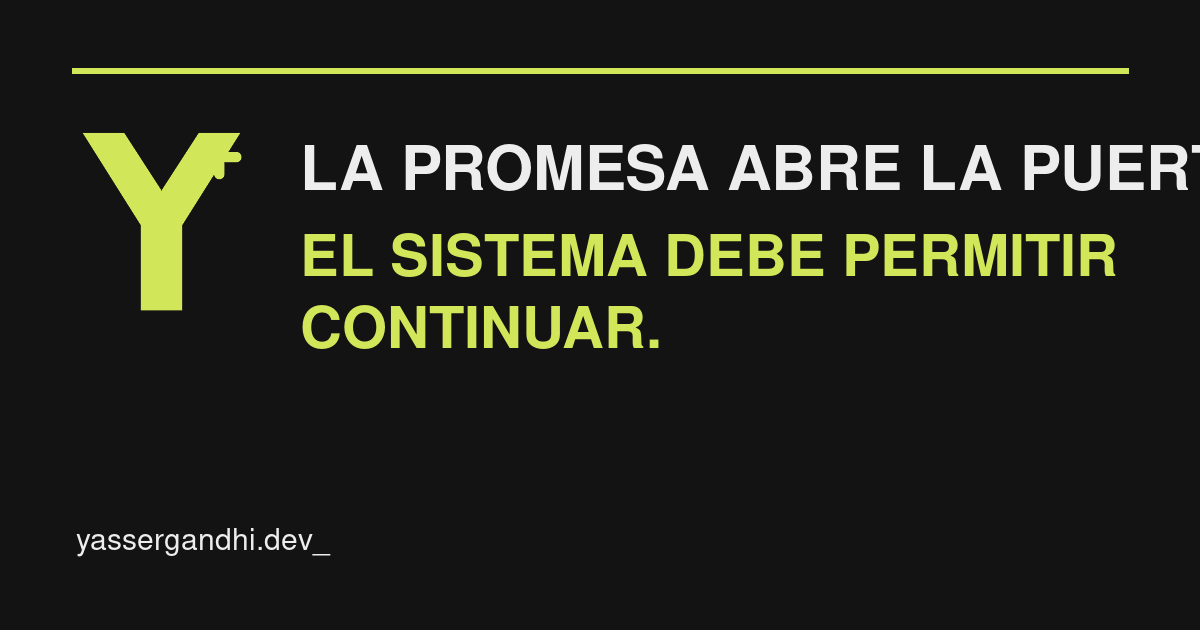
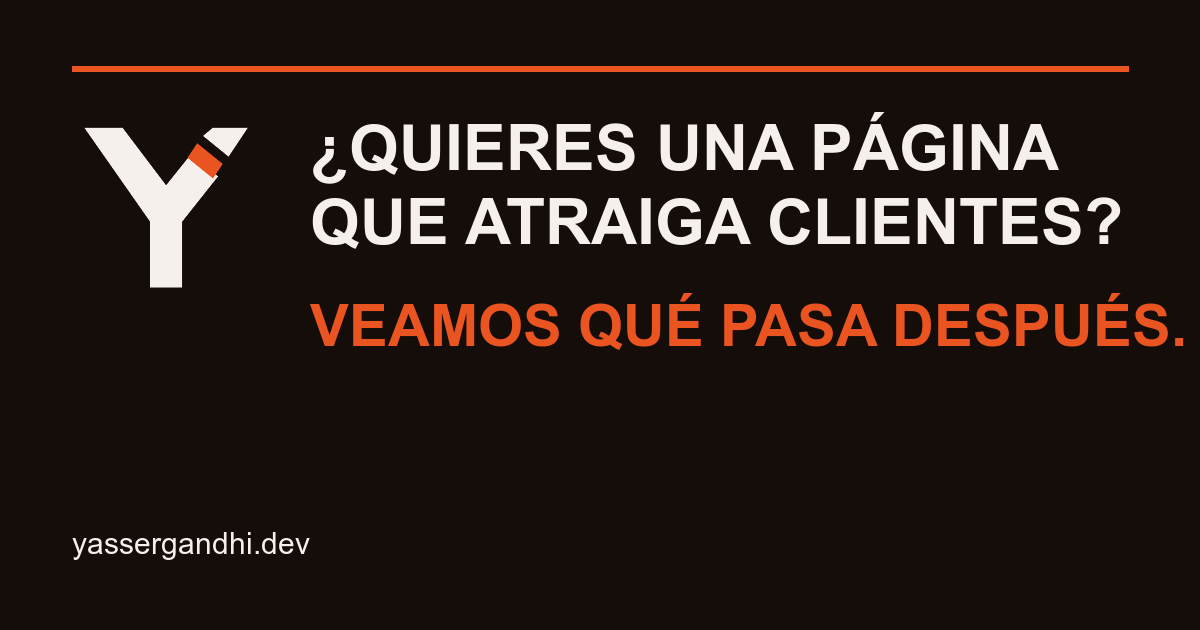
feat: rediseña isotipo y sistema cromático V10

diff --git a/src/styles/global.css b/src/styles/global.css
@@ -14,36 +14,37 @@
 }
 
 :root {
-  --black: #121212;
-  --surface: #1b1b1b;
-  --raised: #242424;
-  --lime: #d7ed55;
-  --lime-bright: #e5fa69;
-  --white: #f2f1ef;
-  --muted: #b9b7b3;
-  --line: rgba(215, 237, 85, .38);
-  --line-soft: rgba(242, 241, 239, .16);
+  --ink: #140d0a;
+  --surface: #1e1410;
+  --raised: #291a14;
+  --orange: #e95420;
+  --orange-bright: #ff7043;
+  --orange-deep: #a83a18;
+  --paper: #f5f0ec;
+  --muted: #c5b5aa;
+  --line: rgba(233, 84, 32, .38);
+  --line-soft: rgba(245, 240, 236, .14);
   --max: 76rem;
   --reading: 64ch;
 }
 
 *, *::before, *::after { box-sizing: border-box; }
-html { overflow-x: hidden; scroll-behavior: smooth; scroll-padding-top: 6rem; background: var(--black); }
-body { min-width: 320px; margin: 0; overflow-x: hidden; color: var(--white); background: var(--black); font-family: "Instrument Sans", system-ui, sans-serif; font-size: clamp(1.0625rem, 1.2vw, 1.1875rem); line-height: 1.58; }
+html { overflow-x: hidden; scroll-behavior: smooth; scroll-padding-top: 6rem; background: var(--ink); }
+body { min-width: 320px; margin: 0; overflow-x: hidden; color: var(--paper); background: var(--ink); font-family: "Instrument Sans", system-ui, sans-serif; font-size: clamp(1.0625rem, 1.2vw, 1.1875rem); line-height: 1.58; }
 img, svg, iframe { display: block; max-width: 100%; }
 a { color: inherit; text-underline-offset: .24em; }
-:focus-visible { outline: 3px solid var(--lime-bright); outline-offset: 4px; }
+:focus-visible { outline: 3px solid var(--orange-bright); outline-offset: 4px; }
 h1, h2, h3, p { margin-top: 0; }
 ul, ol { margin-top: 0; }
 h1, h2, h3, .footer-closing { font-family: "Barlow Condensed", "Arial Narrow", sans-serif; font-weight: 800; text-wrap: balance; }
 h1 { max-width: 20ch; margin-bottom: 1.15rem; font-size: clamp(3.15rem, 5vw, 5.25rem); letter-spacing: -.025em; line-height: .91; }
 h1 > span { display: block; }
-.hero-contrast { margin-top: .12em; color: var(--lime); }
+.hero-contrast { margin-top: .12em; color: var(--orange); }
 .section-title { max-width: 18ch; margin-bottom: 1.4rem; font-size: clamp(2.75rem, 5.8vw, 5.3rem); letter-spacing: -.018em; line-height: .94; }
 h3 { margin-bottom: .55rem; font-size: clamp(1.9rem, 3vw, 2.8rem); line-height: 1; }
 p { max-width: var(--reading); }
 .intro-copy { color: var(--muted); font-size: clamp(1.0625rem, 1.4vw, 1.25rem); line-height: 1.54; }
-.kicker, .label { color: var(--lime); font-size: .78rem; font-weight: 700; letter-spacing: .11em; line-height: 1.4; text-transform: uppercase; }
+.kicker, .label { color: var(--orange-bright); font-size: .78rem; font-weight: 700; letter-spacing: .11em; line-height: 1.4; text-transform: uppercase; }
 .microcopy { margin-top: .75rem; color: var(--muted); font-size: .875rem; line-height: 1.45; }
 .visually-hidden { position: absolute; width: 1px; height: 1px; overflow: hidden; clip: rect(0 0 0 0); clip-path: inset(50%); white-space: nowrap; }
 
@@ -52,29 +53,35 @@ section[id] { scroll-margin-top: 6rem; }
 .container { width: min(calc(100% - 2rem), var(--max)); margin-inline: auto; }
 .section-raised { background: var(--raised); }
 .section-intro { color: var(--muted); }
-.button { display: inline-flex; min-height: 50px; align-items: center; justify-content: center; border: 1px solid var(--lime); border-radius: 2px; padding: .78rem 1.08rem; color: var(--black); background: var(--lime); font-size: .96rem; font-weight: 700; text-decoration: none; transition: background-color 160ms ease, transform 160ms ease; }
-.button:hover, .button:focus-visible { color: var(--black); background: var(--lime-bright); transform: translateY(-2px); }
+.button { display: inline-flex; min-height: 50px; align-items: center; justify-content: center; border: 1px solid var(--orange); border-radius: 2px; padding: .78rem 1.08rem; color: var(--ink); background: var(--orange); font-size: .96rem; font-weight: 700; text-decoration: none; transition: background-color 160ms ease, transform 160ms ease; }
+.button:hover, .button:focus-visible { color: var(--ink); background: var(--orange-bright); transform: translateY(-2px); }
 .button > span, .nav-evaluation > span { display: inline-block; margin-left: .45rem; transition: transform 160ms ease; }
 .button:hover > span, .button:focus-visible > span, .nav-evaluation:hover > span, .nav-evaluation:focus-visible > span { transform: translateX(4px); }
+.nav-brand .brand-mark-piece, .footer-brand .brand-mark-piece { transition: transform 180ms ease; }
+.nav-brand:hover .brand-mark-piece, .nav-brand:focus-visible .brand-mark-piece,
+.footer-brand:hover .brand-mark-piece, .footer-brand:focus-within .brand-mark-piece { transform: translateX(2px); }
 
-.site-nav { position: sticky; z-index: 20; top: 0; border-bottom: 2px solid var(--lime); background: rgba(18, 18, 18, .97); }
+.site-nav { position: sticky; z-index: 20; top: 0; border-bottom: 2px solid var(--orange); background: rgba(20, 13, 10, .97); }
 .nav-inner { display: flex; min-height: 68px; align-items: center; gap: .8rem; }
 .nav-brand { display: inline-flex; min-height: 44px; align-items: center; gap: .6rem; margin-right: auto; font-size: .9rem; font-weight: 700; text-decoration: none; }
-.nav-brand .brand-mark { width: 29px; height: 33px; color: var(--lime); }
-.nav-brand > span > span { color: var(--lime); }
+.brand-mark { --mark-piece: var(--orange); }
+.brand-mark-piece { fill: var(--mark-piece); transform-box: fill-box; transform-origin: center; }
+.brand-mark[data-monochrome] .brand-mark-piece { fill: currentColor; }
+.nav-brand .brand-mark { width: 31px; height: 33px; color: var(--paper); }
+.nav-brand > span > span { color: var(--orange); }
 .nav-links { display: flex; gap: .1rem; margin: 0; padding: 0; list-style: none; }
 .nav-links a, .nav-evaluation, .nav-back { display: inline-flex; min-height: 44px; align-items: center; padding: .38rem .58rem; font-size: .82rem; font-weight: 600; text-decoration: none; }
 .nav-links a { border-bottom: 1px solid transparent; }
-.nav-links a:hover, .nav-links a:focus-visible, .nav-links a[data-active] { border-color: var(--lime); color: var(--lime-bright); }
-.nav-evaluation, .nav-back { border: 1px solid var(--lime); border-radius: 2px; color: var(--black); background: var(--lime); }
-.nav-evaluation:hover, .nav-evaluation:focus-visible, .nav-back:hover, .nav-back:focus-visible { background: var(--lime-bright); }
-.reading-progress { position: absolute; right: 0; bottom: -2px; left: 0; height: 2px; background: var(--lime-bright); transform: scaleX(0); transform-origin: left; }
+.nav-links a:hover, .nav-links a:focus-visible, .nav-links a[data-active] { border-color: var(--orange); color: var(--orange-bright); }
+.nav-evaluation, .nav-back { border: 1px solid var(--orange); border-radius: 2px; color: var(--ink); background: var(--orange); }
+.nav-evaluation:hover, .nav-evaluation:focus-visible, .nav-back:hover, .nav-back:focus-visible { background: var(--orange-bright); }
+.reading-progress { position: absolute; right: 0; bottom: -2px; left: 0; height: 2px; background: var(--orange-bright); transform: scaleX(0); transform-origin: left; }
 @supports (animation-timeline: scroll()) { .reading-progress { animation: reading-progress linear both; animation-timeline: scroll(); } }
 @keyframes reading-progress { to { transform: scaleX(1); } }
 
 .hero { min-height: calc(100svh - 68px); border-top: 0; padding: clamp(1.25rem, 3.4vw, 3rem) 0 3rem; }
-.hero-grid { display: grid; grid-template-columns: minmax(7rem, .55fr) minmax(0, 2.45fr); gap: clamp(2rem, 6vw, 6rem); align-items: start; border-top: 4px solid var(--lime); padding-top: clamp(1rem, 2.5vw, 2rem); }
-.hero-mark .brand-mark { width: min(100%, 14rem); color: var(--lime); }
+.hero-grid { display: grid; grid-template-columns: minmax(7rem, .55fr) minmax(0, 2.45fr); gap: clamp(2rem, 6vw, 6rem); align-items: start; border-top: 4px solid var(--orange); padding-top: clamp(1rem, 2.5vw, 2rem); }
+.hero-mark .brand-mark { width: min(100%, 14rem); color: var(--paper); }
 .hero-copy .kicker { margin-bottom: .8rem; }
 .hero-copy .intro-copy { max-width: 58ch; margin-bottom: 1rem; }
 
@@ -82,19 +89,19 @@ section[id] { scroll-margin-top: 6rem; }
 .editorial-list li { position: relative; display: grid; grid-template-columns: minmax(4rem, .28fr) minmax(0, 1.72fr); gap: 1.25rem; align-items: baseline; padding: 1.5rem 0; }
 .editorial-list li::before, .method-sequence li::before { position: absolute; top: 0; right: 0; left: 0; height: 1px; background: var(--line); content: ""; transform-origin: left; }
 .editorial-list li:last-child, .method-sequence li:last-child { border-bottom: 1px solid var(--line); }
-.editorial-list li > span, .method-sequence li > span { color: var(--lime); font-family: "Barlow Condensed", "Arial Narrow", sans-serif; font-size: clamp(3.1rem, 7vw, 6.4rem); font-weight: 800; line-height: .8; }
+.editorial-list li > span, .method-sequence li > span { color: var(--orange); font-family: "Barlow Condensed", "Arial Narrow", sans-serif; font-size: clamp(3.1rem, 7vw, 6.4rem); font-weight: 800; line-height: .8; }
 .editorial-list p { margin: 0; font-size: clamp(1.14rem, 2vw, 1.5rem); }
 .method-sequence li { position: relative; display: grid; grid-template-columns: minmax(5rem, .42fr) minmax(0, 1.58fr); gap: 2rem; padding: 2rem 0; }
 .method-sequence p { margin-bottom: 0; color: var(--muted); }
 .narrative-line { display: grid; grid-template-columns: 1fr 1fr 1fr; width: min(100%, 42rem); height: 4px; margin-bottom: 2rem; gap: 5px; }
-.narrative-line span { background: var(--lime); }
+.narrative-line span { background: var(--orange); }
 
 .evidence-grid { display: grid; grid-template-columns: minmax(0, 1.15fr) minmax(18rem, .85fr); gap: clamp(3rem, 8vw, 7rem); align-items: start; }
 .evidence-links { display: flex; flex-wrap: wrap; gap: 1rem 2rem; margin-top: 2rem; padding: 0; list-style: none; }
 .evidence-links a, .authorial-signature a, .footer-links a, .footer-signature a { background-image: linear-gradient(currentColor, currentColor); background-position: 100% 100%; background-repeat: no-repeat; background-size: 0 1px; text-decoration: none; transition: background-size 180ms ease; }
 .evidence-links a:hover, .evidence-links a:focus-visible, .authorial-signature a:hover, .authorial-signature a:focus-visible, .footer-links a:hover, .footer-links a:focus-visible, .footer-signature a:hover, .footer-signature a:focus-visible { background-position: 0 100%; background-size: 100% 1px; }
-.authorial-signature { border-bottom: 1px solid var(--lime); padding: 0 0 2rem; }
-.signature-line { width: 100%; height: 4px; margin-bottom: 1.5rem; background: var(--lime); transform-origin: left; }
+.authorial-signature { border-bottom: 1px solid var(--orange); padding: 0 0 2rem; }
+.signature-line { width: 100%; height: 4px; margin-bottom: 1.5rem; background: var(--orange); transform-origin: left; }
 .authorial-signature h3 { margin-block: 1.2rem 1rem; font-size: clamp(3rem, 6vw, 5.5rem); text-transform: none; }
 .authorial-signature p:not(.label) { color: var(--muted); }
 .final-cta { background: var(--raised); }
@@ -105,33 +112,34 @@ section[id] { scroll-margin-top: 6rem; }
 .evaluation-reading { max-width: 54rem; }
 .evaluation-header h1 { max-width: 15ch; margin-bottom: 1rem; font-size: clamp(3rem, 7vw, 6.6rem); }
 .evaluation-header .intro-copy { margin-bottom: 1rem; }
-.evaluation-strip { max-width: none; border-block: 1px solid var(--line); padding: .8rem 0; color: var(--white); font-size: .9rem; font-weight: 600; }
-.evaluation-strip span { padding-inline: .35rem; color: var(--lime); }
+.evaluation-strip { max-width: none; border-block: 1px solid var(--line); padding: .8rem 0; color: var(--paper); font-size: .9rem; font-weight: 600; }
+.evaluation-strip span { padding-inline: .35rem; color: var(--orange); }
 .tally-section { border-top: 0; padding: 0 0 5rem; }
 .sensitive-note { margin-bottom: .6rem; color: var(--muted); font-size: .84rem; line-height: 1.45; }
-.tally-shell { position: relative; border: 1px solid var(--line); padding: .6rem; background: var(--black); }
+.tally-shell { position: relative; border: 1px solid var(--line); padding: .6rem; background: var(--ink); }
 .tally-shell-header { display: flex; min-height: 46px; align-items: center; justify-content: space-between; gap: 1rem; border-bottom: 1px solid var(--line); font-size: .86rem; }
-.tally-shell-header span { color: var(--lime); font-weight: 700; }
-.tally-frame, .tally-frame iframe { display: block; width: 100%; min-height: 900px; border: 0; background: var(--black); }
+.tally-shell-header span { color: var(--orange-bright); font-weight: 700; }
+.tally-frame, .tally-frame iframe { display: block; width: 100%; min-height: 900px; border: 0; background: var(--ink); }
 .tally-loading { position: absolute; z-index: 1; top: 4rem; left: 1.2rem; padding: 1rem 0; color: var(--muted); font-size: .9rem; }
-.tally-loading span { display: inline-block; width: .55rem; height: .55rem; margin-right: .45rem; background: var(--lime); animation: pulse 1.2s ease-in-out infinite; }
+.tally-loading span { display: inline-block; width: .55rem; height: .55rem; margin-right: .45rem; background: var(--orange); animation: pulse 1.2s ease-in-out infinite; }
 .tally-loading[hidden], .tally-error[hidden] { display: none; }
-.tally-error { border-left: 3px solid var(--lime); padding: 1rem; }
-.tally-shell[data-state="loaded"] { border-color: var(--lime); }
+.tally-error { border-left: 3px solid var(--orange); padding: 1rem; }
+.tally-shell[data-state="loaded"] { border-color: var(--orange); }
 @keyframes pulse { 50% { opacity: .35; } }
 
-.site-footer { border-top: 4px solid var(--lime); padding: 4rem 0 2rem; background: var(--surface); }
+.site-footer { border-top: 4px solid var(--orange); padding: 4rem 0 2rem; background: var(--surface); }
 .footer-grid { display: grid; grid-template-columns: 1.25fr .55fr .8fr; gap: 2rem; }
-.footer-brand .brand-mark { width: 62px; color: var(--lime); }
+.footer-brand .brand-mark { width: 62px; color: var(--paper); }
 .footer-wordmark { margin: 1rem 0 .3rem; font-weight: 700; }
-.footer-wordmark span { color: var(--lime); }
+.footer-wordmark span { color: var(--orange); }
 .footer-meta { color: var(--muted); }
 .footer-links { display: flex; flex-direction: column; align-items: flex-start; gap: .5rem; }
-.footer-signature { border-top: 3px solid var(--lime); padding-top: 1rem; }
+.footer-signature { border-top: 3px solid var(--orange); padding-top: 1rem; }
 .footer-signature > a { font-family: "Barlow Condensed", "Arial Narrow", sans-serif; font-size: 2.2rem; font-weight: 800; }
-.footer-closing { grid-column: 1 / -1; margin: 2rem 0 0; border-top: 1px solid var(--line); padding-top: 2rem; color: var(--lime); font-size: clamp(1.7rem, 3.5vw, 3rem); line-height: 1; text-transform: uppercase; }
+.footer-closing { grid-column: 1 / -1; margin: 2rem 0 0; border-top: 1px solid var(--line); padding-top: 2rem; color: var(--orange-bright); font-size: clamp(1.7rem, 3.5vw, 3rem); line-height: 1; }
 
 html[data-motion-capable] [data-hero-reveal] { transform: translateY(10px); animation: hero-reveal 260ms ease-out both; animation-delay: calc(var(--reveal-order, 0) * 100ms); }
+html[data-motion-capable] .hero-mark .brand-mark-piece { animation: piece-settle 360ms ease-out 120ms both; }
 html[data-motion-capable] [data-reveal-ready] { transform: translateY(10px); transition: transform 340ms ease; }
 html[data-motion-capable] [data-reveal-ready][data-visible] { transform: translateY(0); }
 html[data-motion-capable] [data-line][data-reveal-ready] { transform: scaleX(.08); transition: transform 420ms ease; }
@@ -140,6 +148,7 @@ html[data-motion-capable] [data-reveal-item][data-reveal-ready]::before { transf
 html[data-motion-capable] [data-reveal-item][data-visible]::before { transform: scaleX(1); }
 html[data-motion-capable] [data-reveal-item][data-reveal-ready] { transition-delay: calc(var(--reveal-order, 0) * 70ms); }
 @keyframes hero-reveal { from { transform: translateY(10px); } to { transform: translateY(0); } }
+@keyframes piece-settle { from { transform: translate(-3px, 2px); } to { transform: translate(0); } }
 
 @media (min-width: 900px) { .container { width: min(calc(100% - 5rem), var(--max)); } }
 @media (max-width: 820px) {
